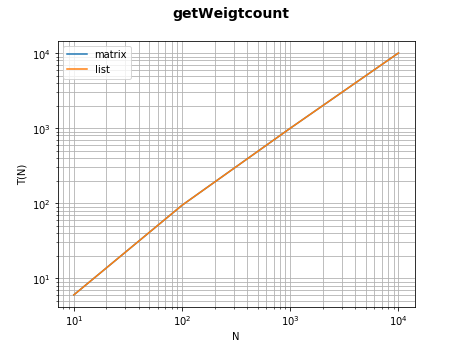
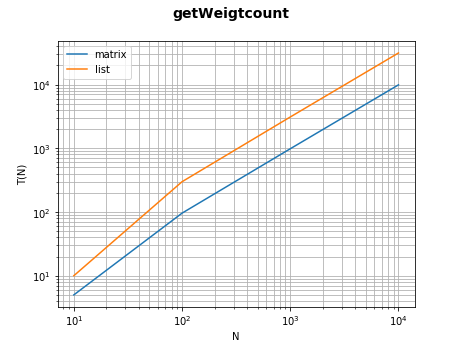
gsnkjofasoni

Changed region(s): [[0.0609, 0.1449, 0.913, 0.8696], [0.0609, 0.1449, 0.1522, 0.1739]]

diff --git a/src/graph/ListGraph.java b/src/graph/ListGraph.java
@@ -7,29 +7,32 @@ import java.util.List;
 import helper.Count;
 
 public class ListGraph implements iGraph {
-	public List<NodeEdgeList> graphList;
+	public HashMap<Integer, Node<?>> graphList;
 	public int anzNodes = 0;
 	public List<Node<?>> nodes;
 
-	public ListGraph(List<NodeEdgeList> graphList) {
+	public ListGraph(HashMap<Integer, Node<?>> graphList) {
 		super();
 		this.graphList = graphList;
 		this.anzNodes = graphList.size();
 		nodes = new ArrayList<>();
-		for (int i = 0; i < graphList.size(); i++) {
-			nodes.add(graphList.get(i).node);
+		
+		for (Integer i: graphList.keySet()){
+			nodes.add(graphList.get(i));
 		}
+		// }
+
 	}
 
 	@Override
 	public void addNode(Node<?> node) {
-		graphList.add(new NodeEdgeList(node, null));
-		anzNodes++;
+		// graphList.add(new NodeEdgeList(node, null));
+		// anzNodes++;
 	}
 
 	@Override
 	public void addEdge(Edge edge) {
-		addEdge(edge.from, edge.to, edge.weight);
+		// addEdge(edge.from, edge.to, edge.weight);
 	}
 
 	@Override
@@ -38,40 +41,40 @@ public class ListGraph implements iGraph {
 		int index = 0;
 		// finde from
 		for (int i = 0; temp != from || i < graphList.size(); i++) {
-			if (from.equals(graphList.get(i).node)) {
-				temp = graphList.get(i).node;
-				index = i;
-			}
+			// if (from.equals(graphList.get(i).node)) {
+			// temp = graphList.get(i).node;
+			index = i;
+			// }
 		}
 		if (temp == null) {
 			System.out.println("fehler addEDge");
 			// throw new NodeNotFoundException();
 		}
 		// update oder setze list von from
-		if (graphList.get(index).neighbors.containsKey(to)) {
-			graphList.get(index).neighbors.replace(to, weight);
-		} else {
-			graphList.get(index).neighbors.put(to, weight);
-		}
+		// if (graphList.get(index).neighbors.containsKey(to)) {
+		// graphList.get(index).neighbors.replace(to, weight);
+		// } else {
+		// graphList.get(index).neighbors.put(to, weight);
+		// }
 		// finde to
 		index = 0;
 		temp = null;
 		for (int i = 0; temp != to || i < graphList.size(); i++) {
-			if (to.equals(graphList.get(i).node)) {
-				temp = graphList.get(i).node;
-				index = i;
-			}
+			// if (to.equals(graphList.get(i).node)) {
+			// temp = graphList.get(i).node;
+			index = i;
+			// }
 		}
 		if (temp == null) {
 			System.out.println("fehler addEDge");
 			// throw new NodeNotFoundException();
 		}
 		// update oder setze list von to
-		if (graphList.get(index).neighbors.containsKey(from)) {
-			graphList.get(index).neighbors.replace(from, weight);
-		} else {
-			graphList.get(index).neighbors.put(from, weight);
-		}
+		// if (graphList.get(index).neighbors.containsKey(from)) {
+		// graphList.get(index).neighbors.replace(from, weight);
+		// } else {
+		// graphList.get(index).neighbors.put(from, weight);
+		// 7 }
 
 	}
 
@@ -81,12 +84,12 @@ public class ListGraph implements iGraph {
 		// finde alle Knoten die node als nachbar haben und l�sche node aus der
 		// Hashmap
 		for (int i = 0; i < graphList.size(); i++) {
-			if (!graphList.get(i).node.equals(node)) {
-				// ggf contains vorher?oder doppelte abfrage
-				graphList.get(i).neighbors.remove(node);
-			} else if (graphList.get(i).node.equals(node)) {
-				index = i;
-			}
+			// if (!graphList.get(i).node.equals(node)) {
+			// ggf contains vorher?oder doppelte abfrage
+			// graphList.get(i).neighbors.remove(node);
+			// } else if (graphList.get(i).node.equals(node)) {
+			// index = i;
+			// }
 		}
 		graphList.remove(index);
 		anzNodes--;
@@ -102,17 +105,15 @@ public class ListGraph implements iGraph {
 	@Override
 	public List<Node<?>> getNeighbors(Node<?> node) {
 		List<Node<?>> temp = new ArrayList<>();
+
 		// finde node in graphList
 		int index = 0;
 
-		while (!graphList.get(index).node.equals(node)) {
-			Count.up();
+		for (Edge e : graphList.get(node.id).neighbors) {
 			Count.neighbor++;
-			index++;
+			Count.up();
+			temp.add(e.getTo());
 		}
-		// f�ge alle Nachbarn zu der Liste hinzu
-
-		temp.addAll(graphList.get(index).neighbors.keySet());
 
 		return temp;
 	}
@@ -123,21 +124,29 @@ public class ListGraph implements iGraph {
 		Node<?> temp = new Node<Object>(null);
 		int index = 0;
 		int weight = -1;
-		if (nodeA.equals(null) || nodeB.equals(null)) {
-			System.out.println("erere");
-			return -1;
-		}
-		for (int i = 0; i < graphList.size() && !temp.equals(nodeA); i++) {
-			temp = graphList.get(i).node;
-			index = i;
+
+		for (Edge e : nodeA.neighbors) {
+			 Count.up();
+			 Count.getweight++;
+			if (e.to.equals(nodeB)) {
+				weight = e.getWeigth();
+			}
 		}
 
+		// if (nodeA.equals(null) || nodeB.equals(null)) {
+		// System.out.println("erere");
+		// return -1;
+		// }
+		// for (int i = 0; i < graphList.size() && !temp.equals(nodeA); i++) {
+		// temp = graphList.get(i).node;
+		// index = i;
+		// }
+
 		// gucke ob sie eine gemeinsame Edge haben und hole das weight
-		if (graphList.get(index).neighbors.containsKey(nodeB)) {
-			Count.up();
-			Count.getweight++;
-			weight = graphList.get(index).neighbors.get(nodeB);
-		}
+		// if (graphList.get(index).neighbors.containsKey(nodeB)) {
+		
+		// weight = graphList.get(index).neighbors.get(nodeB);
+		// }
 		return weight;
 	}
 

diff --git a/src/graph/iGraphTest.java b/src/graph/iGraphTest.java
@@ -51,7 +51,7 @@ public class iGraphTest {
       dykNoList.add(new Node<Integer>(i));
     }
     dykMatGra = new MatrixGraph(dykmat, dykNoList);
-    dykLiGra = new ListGraph(GraphGenerator.genListGraph(dykmat, dykNoList));
+ //   dykLiGra = new ListGraph(GraphGenerator.genListGraph(dykmat, dykNoList));
   }
   /**
    * tests if get Neigbhors works

diff --git a/src/helper/GraphGeneratorTest.java b/src/helper/GraphGeneratorTest.java
@@ -13,7 +13,7 @@ public class GraphGeneratorTest {
 
   @Test
   public void testPrintGraph() {
-    GraphGenerator.printGraph(GraphGenerator.genNonDirectionMatrix(10));
+ //   GraphGenerator.printGraph(GraphGenerator.genNonDirectionMatrix(10));
   }
 
   @Test

diff --git a/src/helper/GraphGenerator.java b/src/helper/GraphGenerator.java
@@ -66,7 +66,7 @@ public class GraphGenerator {
               temp.addEdge(new Edge(temp, nodes.get(j),matrix[i][j]));
           }
         }
-        list.put(i,temp);
+        list.put(temp.id,temp);
       }
       
       
